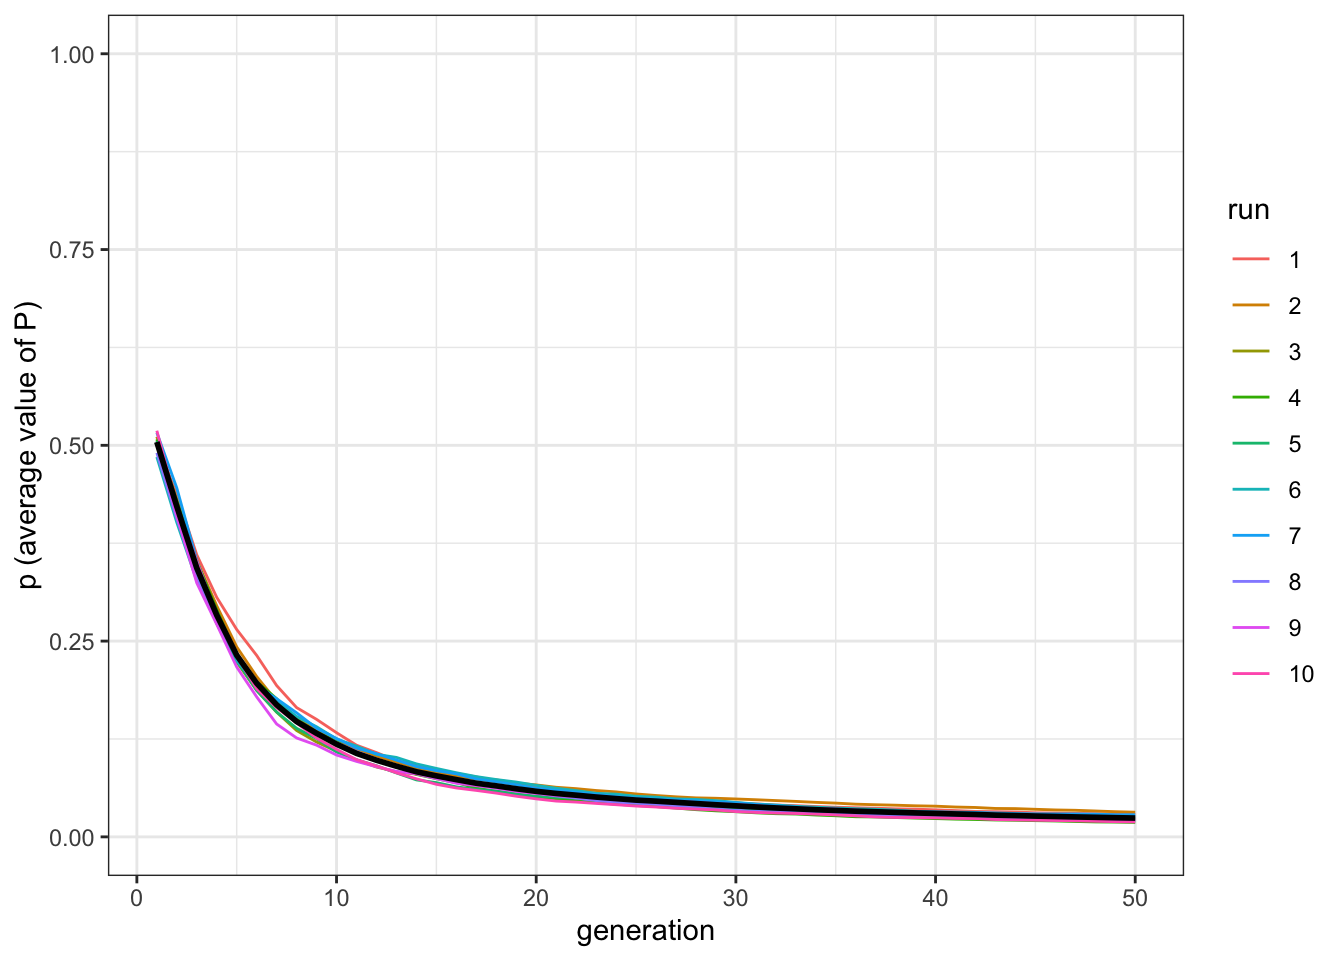
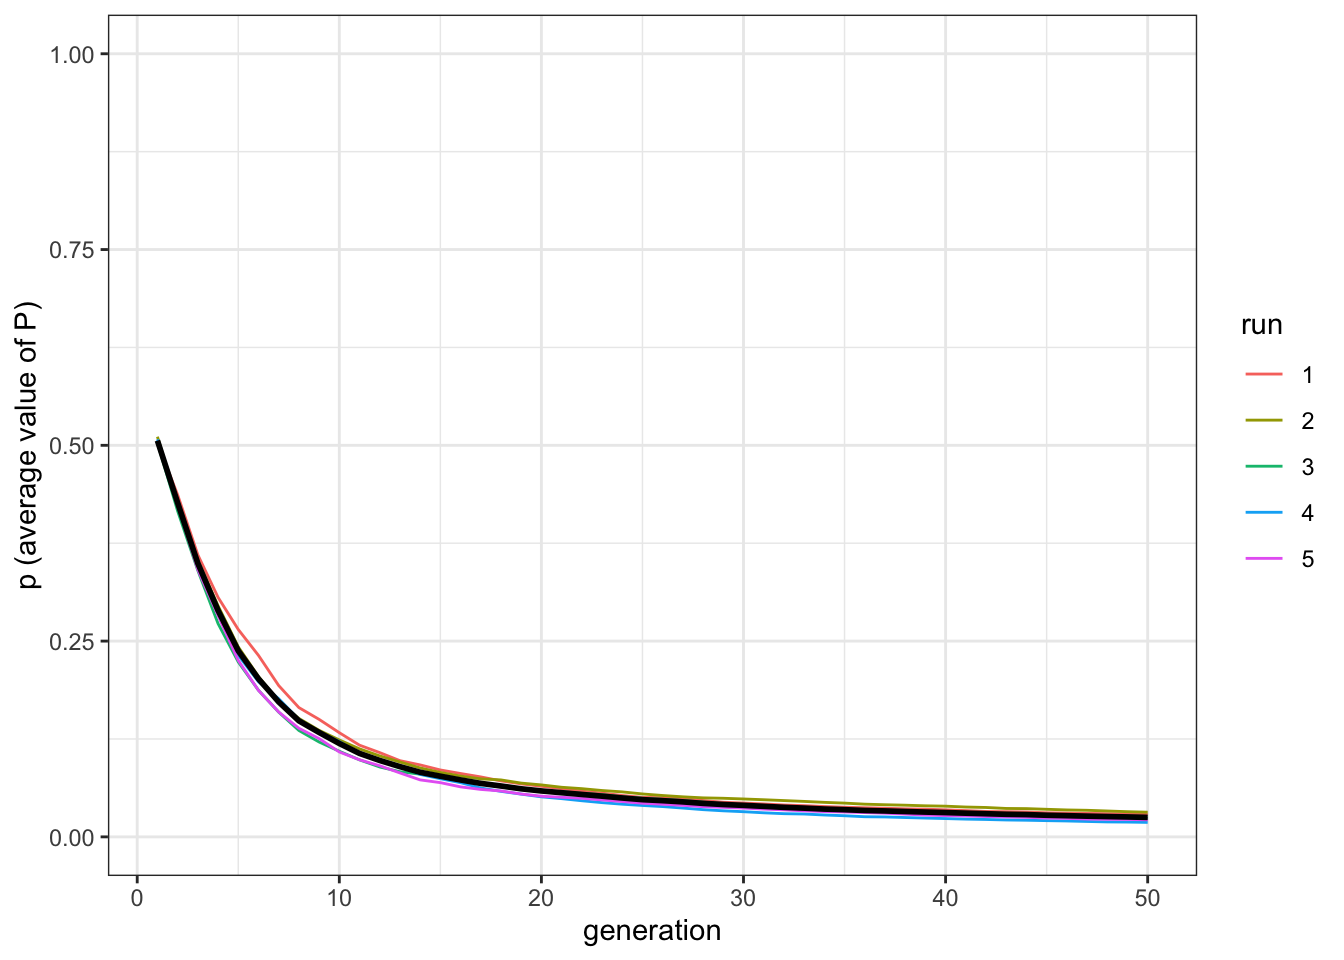
added our PNAS in chapter 14

diff --git a/_book/social-learning-of-social-learning-rules.html b/_book/social-learning-of-social-learning-rules.html
@@ -189,15 +189,15 @@ code > span.in { color: #60a0b0; font-weight: bold; font-style: italic; } /* Inf
 <div id="social-learning-of-social-learning-rules" class="section level1">
 <h1><span class="header-section-number">7</span> Social learning of social learning rules</h1>
 <p>In the models we explored so far, individuals decide whether to copy or not according to various rules, often called “transmission biases” in cultural evolution jargon. They may have a tendency to copy common traits, or to copy a subset of the population, or to prefer certain cultural traits with respect to others by virtue of their intrinsic characteristics, and so on.</p>
-<p>A characteristic of all these models is that these rules were considered stable, or changing (perhaps because of genetic evolution) very solwly in comparision to the timescale considered in the model, so that we considered them as foxed. However, cultural evolution can also influence its own rules, that is, we can learn from others when, what, or from whom to learn from. This is far from being a rare instance: parents, at least in modern western societies, invest much effort in transmitting to children that learning from schoolteachers is important, or teenagers group discourage learning from other groups, or from adults in general. Educational system in countries such as Korea or Jopan are thought to encourage pupils to learn and trust teachers almost unconditionally, whereas in countries like UK and USA, the emphasis is on individual creativity and critical thinking.</p>
+<p>A characteristic of all these models is that these rules were considered stable, or changing (perhaps because of genetic evolution) very slowly in comparison to the timescale considered in the model, so that we considered them as foxed. However, cultural evolution can also influence its own rules, that is, we can learn from others when, what, or from whom to learn from. This is far from being a rare instance: parents, at least in modern western societies, invest much effort in transmitting to children that learning from schoolteachers is important, or teenagers group discourage learning from other groups, or from adults in general. Educational system in countries such as Korea or Japan are thought to encourage pupils to learn and trust teachers almost unconditionally, whereas in countries like UK and USA, the emphasis is on individual creativity and critical thinking.</p>
 <div id="openness-and-conservatism" class="section level2">
 <h2><span class="header-section-number">7.1</span> Openness and conservatism</h2>
-<p>How can we approach the social learning of social learning rules with simple models? To start with, we can imagine that individuals learn from others whether to copy others or not. We can imagine the simplest possible dynamic, where a single trait, <em>P</em>, both regualte the probability to copy from others and is the trait that is actually copied. When an individual has <em>P=1</em> always copies others (we will call it a completely “open” individual), and when it has <span class="math inline">\(P=0\)</span> he never copies others (we will call it a completely “conservative” individual). All intermediate values of <em>P</em> are possible. [NOTE: <em>P</em> IS A CONTINUOS TRAITS. WE WILL PROBABLY HAVE INTRODUCED THEM BEFORE, OTHERWISE WE NEED TO SAY SOMETHING]</p>
+<p>How can we approach the social learning of social learning rules with simple models? To start with, we can imagine that individuals learn from others whether to copy others or not. We can imagine the simplest possible dynamic, where a single trait, <em>P</em>, both regulate the probability to copy from others and is the trait that is actually copied. When an individual has <em>P=1</em> always copies others (we will call it a completely “open” individual), and when it has <span class="math inline">\(P=0\)</span> he never copies others (we will call it a completely “conservative” individual). All intermediate values of <em>P</em> are possible. [NOTE: <em>P</em> IS A CONTINUOS TRAITS. WE WILL PROBABLY HAVE INTRODUCED THEM BEFORE, OTHERWISE WE NEED TO SAY SOMETHING]</p>
 <div class="sourceCode"><pre class="sourceCode r"><code class="sourceCode r"><span class="kw">library</span>(tidyverse)
 <span class="kw">set.seed</span>(<span class="dv">111</span>)
 N &lt;-<span class="st"> </span><span class="dv">1000</span>
 population &lt;-<span class="st"> </span><span class="kw">tibble</span>(<span class="dt">P =</span> <span class="kw">runif</span>(N))</code></pre></div>
-<p>After initalising the population with a random uniform sample of values of <em>P</em>, we can write the function to run the simulations.</p>
+<p>After initialising the population with a random uniform sample of values of <em>P</em>, we can write the function to run the simulations.</p>
 <div class="sourceCode"><pre class="sourceCode r"><code class="sourceCode r">openness_conservatism &lt;-<span class="st"> </span><span class="cf">function</span>(N, t_max, r_max) {
   output &lt;-<span class="st"> </span><span class="kw">tibble</span>(<span class="dt">generation =</span> <span class="kw">rep</span>(<span class="dv">1</span><span class="op">:</span>t_max, r_max), <span class="dt">p =</span> <span class="kw">rep</span>(<span class="ot">NA</span>, t_max <span class="op">*</span><span class="st"> </span>r_max), <span class="dt">run =</span> <span class="kw">as.factor</span>(<span class="kw">rep</span>(<span class="dv">1</span><span class="op">:</span>r_max, <span class="dt">each =</span> t_max)))
 
@@ -221,8 +221,9 @@ population &lt;-<span class="st"> </span><span class="kw">tibble</span>(<span cl
   }
   output <span class="co"># export data from function</span>
 }</code></pre></div>
+<p>EXPLAIN THE CODE HERE</p>
 <p>We can now run the simulation, and plot it with a slightly modified function <code>plot_multiple_runs()</code> (we just need to change the label for y-axis).</p>
-<div class="sourceCode"><pre class="sourceCode r"><code class="sourceCode r">plot_multiple_runs &lt;-<span class="st"> </span><span class="cf">function</span>(data_model) {
+<div class="sourceCode"><pre class="sourceCode r"><code class="sourceCode r">plot_multiple_runs_p &lt;-<span class="st"> </span><span class="cf">function</span>(data_model) {
   <span class="kw">ggplot</span>(<span class="dt">data =</span> data_model, <span class="kw">aes</span>(<span class="dt">y =</span> p, <span class="dt">x =</span> generation)) <span class="op">+</span>
 <span class="st">    </span><span class="kw">geom_line</span>(<span class="kw">aes</span>(<span class="dt">colour =</span> run)) <span class="op">+</span>
 <span class="st">    </span><span class="kw">stat_summary</span>(<span class="dt">fun.y =</span> mean, <span class="dt">geom =</span> <span class="st">&quot;line&quot;</span>, <span class="dt">size =</span> <span class="dv">1</span>) <span class="op">+</span>
@@ -230,16 +231,94 @@ population &lt;-<span class="st"> </span><span class="kw">tibble</span>(<span cl
 <span class="st">    </span><span class="kw">theme_bw</span>() <span class="op">+</span>
 <span class="st">    </span><span class="kw">labs</span>(<span class="dt">y =</span> <span class="st">&quot;p (average value of P)&quot;</span>)
 }</code></pre></div>
-<div class="sourceCode"><pre class="sourceCode r"><code class="sourceCode r">data_model &lt;-<span class="st"> </span><span class="kw">openness_conservatism</span>(<span class="dt">N =</span> <span class="dv">1000</span>, <span class="dt">t_max =</span> <span class="dv">50</span>, <span class="dt">r_max =</span> <span class="dv">10</span>)
-<span class="kw">plot_multiple_runs</span>(data_model)</code></pre></div>
+<div class="sourceCode"><pre class="sourceCode r"><code class="sourceCode r">data_model &lt;-<span class="st"> </span><span class="kw">openness_conservatism</span>(<span class="dt">N =</span> <span class="dv">1000</span>, <span class="dt">t_max =</span> <span class="dv">50</span>, <span class="dt">r_max =</span> <span class="dv">5</span>)
+<span class="kw">plot_multiple_runs_p</span>(data_model)</code></pre></div>
 <p><img src="_main_files/figure-html/14.4-1.png" width="672" /></p>
-<p>The average value of <em>P</em> in the population quickly converges towards 0 (in fact, towards the lower inital value, as there are neither mutations or innovations) in all runs. At this point of the book, you should be able to introduce mutation and innovation, as well as intialising the population with different values of <em>P</em>. What would happen, for example, if individuals start with values of <em>P</em> clustering around 1, that is, they are all initally very open? Another possible modification is that, when two individuals are paired, the individual with the higher <em>P</em>, that is the most open of the two, copy the other one.</p>
-<p>At the risk of ruining the surprise, the main result of populations converging towards maximum conservatism is robust to many modifications (but you should try your own, this is what models are about). The result seems at first sight counterintuitive: the outcome of social tranmission is to eliminate social transmission! A way to understand this result is that, conservative individuals, exactly because they are conservative, change less than open individuals and, in general, transitions from open to conservative happen more frequently than transitions from conservative to open. Imagine a room where people are all copying the t-shirt colors of each other, but one stubborn individual, with a red t-shirt, never changes. At some point, slowly but surely, aall individuals will wear red t-shirts.</p>
+<p>The average value of <em>P</em> in the population quickly converges towards 0 (in fact, towards the lower initial value, as there are neither mutations or innovations) in all runs. At this point of the book, you should be able to introduce mutation and innovation, as well as initialising the population with different values of <em>P</em>. What would happen, for example, if individuals start with values of <em>P</em> clustering around 1, that is, they are all initially very open? Another possible modification is that, when two individuals are paired, the individual with the higher <em>P</em>, that is the most open of the two, copy the other one.</p>
+<p>At the risk of ruining the surprise, the main result of populations converging towards maximum conservatism is robust to many modifications (but you should try your own, this is what models are about). The result seems at first sight counterintuitive: the outcome of social transmission is to eliminate social transmission! A way to understand this result is that, conservative individuals, exactly because they are conservative, change less than open individuals and, in general, transitions from open to conservative happen more frequently than transitions from conservative to open. Imagine a room where people are all copying the t-shirt colors of each other, but one stubborn individual, with a red t-shirt, never changes. At some point, slowly but surely, all individuals will wear red t-shirts.</p>
 </div>
 <div id="maintaining-open-populations" class="section level2">
 <h2><span class="header-section-number">7.2</span> Maintaining open populations</h2>
-<p>The result above highlights a possibly intersting aspect of what could happen when social learning rules are themselves subject to social learning, but it does not represent, of course, what happens in reality. Some models, such as the Rogers’ model we explored in [chapter 8][Rogers’ model], are useful exactly because they force us to think how reality differs from the modeled situation. Individuals, in real life, remain open because learning from others is, on average, effective, and increase their fitness.</p>
+<p>The result above highlights a possibly interesting aspect of what could happen when social learning rules are themselves subject to social learning, but it does not represent, of course, what happens in reality. Some models, such as the Rogers’ model we explored in [chapter 8][Rogers’ model], are useful exactly because they force us to think how reality differs from the modeled situation. Individuals, in real life, remain open because learning from others is, on average, effective, and increase their fitness.</p>
 <p>However,</p>
+<div class="sourceCode"><pre class="sourceCode r"><code class="sourceCode r">openness_conservatism_<span class="dv">2</span> &lt;-<span class="st"> </span><span class="cf">function</span>(N, M, mu, p_death, t_max, r_max){
+  output &lt;-<span class="st"> </span><span class="kw">tibble</span>(<span class="dt">generation =</span> <span class="kw">rep</span>(<span class="dv">1</span><span class="op">:</span>t_max, r_max), <span class="dt">p =</span> <span class="kw">rep</span>(<span class="ot">NA</span>, t_max <span class="op">*</span><span class="st"> </span>r_max), <span class="dt">m =</span> <span class="kw">rep</span>(<span class="ot">NA</span>, t_max <span class="op">*</span><span class="st"> </span>r_max), <span class="dt">run =</span> <span class="kw">as.factor</span>(<span class="kw">rep</span>(<span class="dv">1</span><span class="op">:</span>r_max, <span class="dt">each =</span> t_max)))
+  <span class="cf">for</span> (r <span class="cf">in</span> <span class="dv">1</span><span class="op">:</span>r_max) {
+    population_preferences &lt;-<span class="st"> </span><span class="kw">matrix</span>( <span class="kw">runif</span>(M <span class="op">*</span><span class="st"> </span>N), <span class="dt">ncol =</span> M, <span class="dt">nrow =</span> N)
+    population_traits &lt;-<span class="st"> </span><span class="kw">matrix</span>(<span class="dv">0</span>, <span class="dt">ncol =</span> M, <span class="dt">nrow =</span> N)
+    output[output<span class="op">$</span>generation <span class="op">==</span><span class="st"> </span><span class="dv">1</span> <span class="op">&amp;</span><span class="st"> </span>output<span class="op">$</span>run <span class="op">==</span><span class="st"> </span>r, ]<span class="op">$</span>p &lt;-<span class="st"> </span><span class="kw">mean</span>(population_preferences)
+    output[output<span class="op">$</span>generation <span class="op">==</span><span class="st"> </span><span class="dv">1</span> <span class="op">&amp;</span><span class="st"> </span>output<span class="op">$</span>run <span class="op">==</span><span class="st"> </span>r, ]<span class="op">$</span>m &lt;-<span class="st"> </span><span class="kw">sum</span>(population_traits) <span class="op">/</span><span class="st"> </span>N  
+    <span class="cf">for</span>(t <span class="cf">in</span> <span class="dv">2</span><span class="op">:</span>t_max){
+      <span class="co"># innovations</span>
+      innovators &lt;-<span class="st"> </span><span class="kw">sample</span>(<span class="kw">c</span>(<span class="ot">TRUE</span>, <span class="ot">FALSE</span>), N, <span class="dt">prob =</span> <span class="kw">c</span>(mu, <span class="dv">1</span> <span class="op">-</span><span class="st"> </span>mu), <span class="dt">replace =</span> <span class="ot">TRUE</span>) 
+      innovations &lt;-<span class="st"> </span><span class="kw">sample</span>(<span class="dv">1</span><span class="op">:</span>M, <span class="kw">sum</span>(innovators), <span class="dt">replace =</span> <span class="ot">TRUE</span>)
+      population_traits[<span class="kw">cbind</span>(<span class="kw">which</span>(innovators <span class="op">==</span><span class="st"> </span><span class="ot">TRUE</span>), innovations)] &lt;-<span class="st"> </span><span class="dv">1</span>
+    
+      <span class="co"># copying</span>
+      previous_population_preferences &lt;-<span class="st"> </span>population_preferences
+      previous_population_traits &lt;-<span class="st"> </span>population_traits
+    
+      demonstrators &lt;-<span class="st"> </span><span class="kw">sample</span>(<span class="dv">1</span><span class="op">:</span>N, <span class="dt">replace =</span> <span class="ot">TRUE</span>)
+      demonstrators_traits &lt;-<span class="st"> </span><span class="kw">sample</span>(<span class="dv">1</span><span class="op">:</span>M, N, <span class="dt">replace =</span> <span class="ot">TRUE</span>)
+    
+      copy &lt;-<span class="st"> </span>previous_population_traits[<span class="kw">cbind</span>(demonstrators,demonstrators_traits)]<span class="op">==</span><span class="dv">1</span> <span class="op">&amp;</span><span class="st"> </span>previous_population_preferences[<span class="kw">cbind</span>(<span class="dv">1</span><span class="op">:</span>N, demonstrators_traits)] <span class="op">&gt;</span><span class="st"> </span><span class="kw">runif</span>(N)
+    
+      population_traits[<span class="kw">cbind</span>(<span class="kw">which</span>(copy), demonstrators_traits[copy])] &lt;-<span class="st"> </span><span class="dv">1</span>
+      population_preferences[<span class="kw">cbind</span>(<span class="kw">which</span>(copy), demonstrators_traits[copy])] &lt;-<span class="st"> </span>previous_population_preferences[<span class="kw">cbind</span>(demonstrators[copy], demonstrators_traits[copy])] 
+    
+      <span class="co"># birth/death</span>
+      replace &lt;-<span class="st"> </span>innovators &lt;-<span class="st"> </span><span class="kw">sample</span>(<span class="kw">c</span>(<span class="ot">TRUE</span>, <span class="ot">FALSE</span>), N, <span class="dt">prob =</span> <span class="kw">c</span>(p_death, <span class="dv">1</span> <span class="op">-</span><span class="st"> </span>p_death), <span class="dt">replace =</span> <span class="ot">TRUE</span>)
+      population_traits[replace, ] &lt;-<span class="st"> </span><span class="dv">0</span>
+      population_preferences[replace, ] &lt;-<span class="st"> </span><span class="kw">runif</span>(M <span class="op">*</span><span class="st"> </span><span class="kw">sum</span>(replace))
+    
+      output[output<span class="op">$</span>generation <span class="op">==</span><span class="st"> </span>t <span class="op">&amp;</span><span class="st"> </span>output<span class="op">$</span>run <span class="op">==</span><span class="st"> </span>r, ]<span class="op">$</span>p &lt;-<span class="st"> </span><span class="kw">mean</span>(population_preferences)
+      output[output<span class="op">$</span>generation <span class="op">==</span><span class="st"> </span>t <span class="op">&amp;</span><span class="st"> </span>output<span class="op">$</span>run <span class="op">==</span><span class="st"> </span>r, ]<span class="op">$</span>m &lt;-<span class="st"> </span><span class="kw">sum</span>(population_traits) <span class="op">/</span><span class="st"> </span>N    
+    }
+  }
+  output
+}</code></pre></div>
+<div class="sourceCode"><pre class="sourceCode r"><code class="sourceCode r">plot_multiple_runs_m &lt;-<span class="st"> </span><span class="cf">function</span>(data_model, M) {
+  <span class="kw">ggplot</span>(<span class="dt">data =</span> data_model, <span class="kw">aes</span>(<span class="dt">y =</span> m, <span class="dt">x =</span> generation)) <span class="op">+</span>
+<span class="st">    </span><span class="kw">geom_line</span>(<span class="kw">aes</span>(<span class="dt">colour =</span> run)) <span class="op">+</span>
+<span class="st">    </span><span class="kw">stat_summary</span>(<span class="dt">fun.y =</span> mean, <span class="dt">geom =</span> <span class="st">&quot;line&quot;</span>, <span class="dt">size =</span> <span class="dv">1</span>) <span class="op">+</span>
+<span class="st">    </span><span class="kw">ylim</span>(<span class="kw">c</span>(<span class="dv">0</span>, M)) <span class="op">+</span>
+<span class="st">    </span><span class="kw">theme_bw</span>() <span class="op">+</span>
+<span class="st">    </span><span class="kw">labs</span>(<span class="dt">y =</span> <span class="st">&quot;m (average number of traits)&quot;</span>)
+}</code></pre></div>
+<div class="sourceCode"><pre class="sourceCode r"><code class="sourceCode r">data_model &lt;-<span class="st"> </span><span class="kw">openness_conservatism_2</span>(<span class="dt">N =</span> <span class="dv">100</span>, <span class="dt">M =</span> <span class="dv">1</span>, <span class="dt">mu =</span> <span class="fl">0.1</span>, <span class="dt">p_death =</span> <span class="fl">0.01</span>, <span class="dt">t_max =</span> <span class="dv">50</span>, <span class="dt">r_max =</span> <span class="dv">5</span>)
+<span class="kw">plot_multiple_runs_p</span>(data_model)</code></pre></div>
+<p><img src="_main_files/figure-html/14.7-1.png" width="672" /></p>
+<div class="sourceCode"><pre class="sourceCode r"><code class="sourceCode r"><span class="kw">plot_multiple_runs_m</span>(data_model, <span class="dt">M =</span> <span class="dv">1</span>)</code></pre></div>
+<p><img src="_main_files/figure-html/14.7-2.png" width="672" /></p>
+<div class="sourceCode"><pre class="sourceCode r"><code class="sourceCode r">data_model &lt;-<span class="st"> </span><span class="kw">openness_conservatism_2</span>(<span class="dt">N =</span> <span class="dv">100</span>, <span class="dt">M =</span> <span class="dv">10</span>, <span class="dt">mu =</span> <span class="fl">0.1</span>, <span class="dt">p_death =</span> <span class="fl">0.01</span>, <span class="dt">t_max =</span> <span class="dv">50</span>, <span class="dt">r_max =</span> <span class="dv">5</span>)
+<span class="kw">plot_multiple_runs_p</span>(data_model)</code></pre></div>
+<p><img src="_main_files/figure-html/14.8-1.png" width="672" /></p>
+<div class="sourceCode"><pre class="sourceCode r"><code class="sourceCode r"><span class="kw">plot_multiple_runs_m</span>(data_model, <span class="dt">M =</span> <span class="dv">10</span>)</code></pre></div>
+<p><img src="_main_files/figure-html/14.8-2.png" width="672" /></p>
+<div class="sourceCode"><pre class="sourceCode r"><code class="sourceCode r">data_model &lt;-<span class="st"> </span><span class="kw">openness_conservatism_2</span>(<span class="dt">N =</span> <span class="dv">100</span>, <span class="dt">M =</span> <span class="dv">10</span>, <span class="dt">mu =</span> <span class="fl">0.1</span>, <span class="dt">p_death =</span> <span class="fl">0.01</span>, <span class="dt">t_max =</span> <span class="dv">1000</span>, <span class="dt">r_max =</span> <span class="dv">5</span>)
+<span class="kw">plot_multiple_runs_p</span>(data_model)</code></pre></div>
+<p><img src="_main_files/figure-html/14.9-1.png" width="672" /></p>
+<div class="sourceCode"><pre class="sourceCode r"><code class="sourceCode r"><span class="kw">plot_multiple_runs_m</span>(data_model, <span class="dt">M =</span> <span class="dv">10</span>)</code></pre></div>
+<p><img src="_main_files/figure-html/14.9-2.png" width="672" /></p>
+<div class="sourceCode"><pre class="sourceCode r"><code class="sourceCode r">data_model &lt;-<span class="st"> </span><span class="kw">openness_conservatism_2</span>(<span class="dt">N =</span> <span class="dv">100</span>, <span class="dt">M =</span> <span class="dv">50</span>, <span class="dt">mu =</span> <span class="fl">0.1</span>, <span class="dt">p_death =</span> <span class="fl">0.01</span>, <span class="dt">t_max =</span> <span class="dv">1000</span>, <span class="dt">r_max =</span> <span class="dv">5</span>)
+<span class="kw">plot_multiple_runs_p</span>(data_model)</code></pre></div>
+<p><img src="_main_files/figure-html/14.10-1.png" width="672" /></p>
+<div class="sourceCode"><pre class="sourceCode r"><code class="sourceCode r"><span class="kw">plot_multiple_runs_m</span>(data_model, <span class="dt">M =</span> <span class="dv">50</span>)</code></pre></div>
+<p><img src="_main_files/figure-html/14.10-2.png" width="672" /></p>
+<p>Visualise the full relationship:</p>
+<div class="sourceCode"><pre class="sourceCode r"><code class="sourceCode r">test_openness &lt;-<span class="st"> </span><span class="kw">tibble</span>(<span class="dt">M =</span> <span class="kw">c</span>(<span class="dv">1</span>,<span class="dv">5</span>,<span class="dv">10</span>,<span class="dv">20</span>,<span class="dv">50</span>,<span class="dv">100</span>), <span class="dt">p =</span> <span class="kw">rep</span>(<span class="ot">NA</span>, <span class="dv">6</span>))
+<span class="cf">for</span>(condition <span class="cf">in</span> test_openness<span class="op">$</span>M){
+  data_model &lt;-<span class="st"> </span><span class="kw">openness_conservatism_2</span>(<span class="dt">N =</span> <span class="dv">100</span>, <span class="dt">M =</span> condition, <span class="dt">mu =</span> <span class="fl">0.1</span>, <span class="dt">p_death =</span> <span class="fl">0.01</span>, <span class="dt">t_max =</span> <span class="dv">1000</span>, <span class="dt">r_max =</span> <span class="dv">1</span>)
+  test_openness[test_openness<span class="op">$</span>M <span class="op">==</span><span class="st"> </span>condition, ]<span class="op">$</span>p &lt;-<span class="st"> </span>data_model[data_model<span class="op">$</span>generation <span class="op">==</span><span class="st"> </span><span class="dv">1000</span>, ]<span class="op">$</span>p
+}
+
+<span class="kw">ggplot</span>(<span class="dt">data =</span> test_openness, <span class="kw">aes</span>(<span class="dt">x =</span> M, <span class="dt">y =</span> p)) <span class="op">+</span>
+<span class="st">  </span><span class="kw">geom_line</span>() <span class="op">+</span>
+<span class="st">  </span><span class="kw">geom_point</span>() <span class="op">+</span>
+<span class="st">  </span><span class="kw">theme_bw</span>() <span class="op">+</span>
+<span class="st">  </span><span class="kw">labs</span>(<span class="dt">x =</span> <span class="st">&quot;Maximum possible number of traits&quot;</span>, <span class="dt">y =</span> <span class="st">&quot;p (final average value of p)&quot;</span>)</code></pre></div>
+<p><img src="_main_files/figure-html/14.11-1.png" width="672" /></p>
+<p>You can do the same for <span class="math inline">\(p_\text{death}\)</span></p>
 </div>
 <div id="summary-of-the-model-7" class="section level2">
 <h2><span class="header-section-number">7.3</span> Summary of the model</h2>
